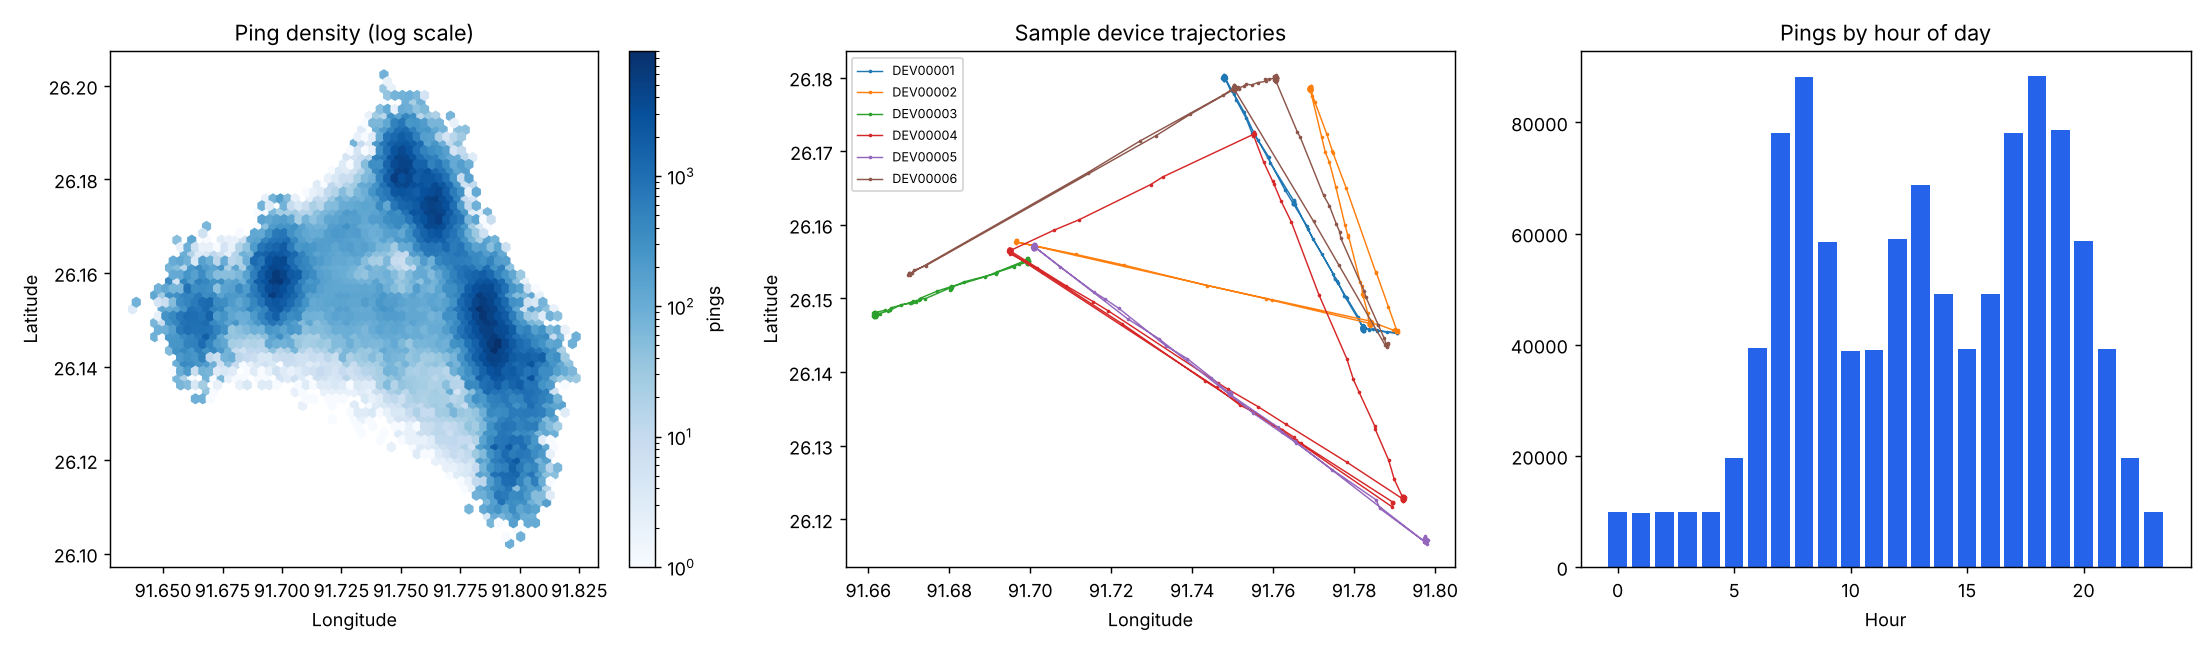
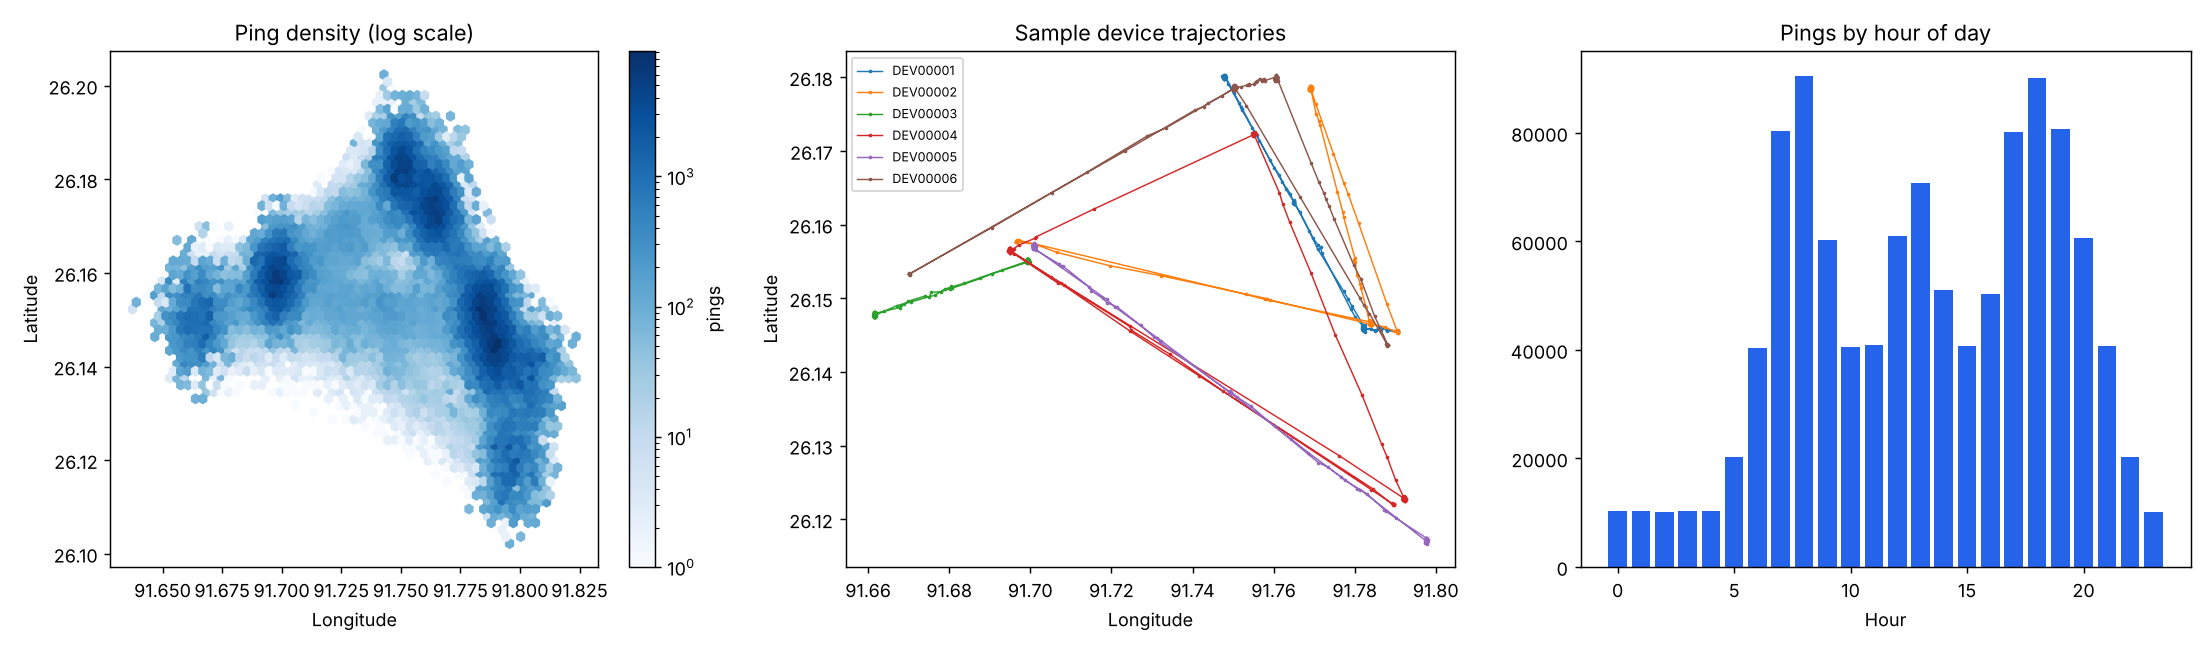
Add files via upload

diff --git a/generate_gps_data.py b/generate_gps_data.py
@@ -26,7 +26,7 @@ def place(rng, names, n, spread):
 def main():
     ap = argparse.ArgumentParser()
     ap.add_argument("--devices", type=int, default=5000)
-    ap.add_argument("--pings", type=int, default=210, help="pings per device")
+    ap.add_argument("--pings", type=int, default=220, help="pings per device (before removing slot collisions)")
     ap.add_argument("--date", default="2026-11-02")
     ap.add_argument("--seed", type=int, default=42)
     ap.add_argument("--out", default="gps_pings.csv")
@@ -45,14 +45,17 @@ def main():
 
     ids, lats, lons, secs = [], [], [], []
     for i in range(D):
-        h = np.sort(rng.choice(24, a.pings, p=prob) + rng.random(a.pings))      # decimal hours
+        # Pings fall on a 10-second grid (unique slots), so two pings are never closer than 10 s.
+        slots = np.unique(((rng.choice(24, a.pings, p=prob) + rng.random(a.pings)) * 360).astype(int))
+        sec = slots * 10 + rng.integers(0, 10)
+        h, n = sec / 3600, len(sec)
         t = [0, leave[i], leave[i] + commute[i], 12.5, 12.9, 13.4, 13.8, back[i], back[i] + .4, back[i] + 1, back[i] + 1.6, 24]
         pts = np.array([home[i], home[i], work[i], work[i], lunch[i], lunch[i], work[i], work[i],
                         evening[i], evening[i], home[i], home[i]])
-        lats.append(np.interp(h, t, pts[:, 0]) + rng.normal(0, 0.00015, a.pings))  # about 17 m GPS noise
-        lons.append(np.interp(h, t, pts[:, 1]) + rng.normal(0, 0.00015, a.pings))
-        secs.append(np.floor(h * 3600).astype(int))
-        ids.append(np.full(a.pings, f"DEV{i + 1:05d}"))
+        lats.append(np.interp(h, t, pts[:, 0]) + rng.normal(0, 0.00015, n))  # about 17 m GPS noise
+        lons.append(np.interp(h, t, pts[:, 1]) + rng.normal(0, 0.00015, n))
+        secs.append(sec)
+        ids.append(np.full(n, f"DEV{i + 1:05d}"))
 
     df = pd.DataFrame({"DeviceID": np.concatenate(ids), "Latitude": np.concatenate(lats).clip(BBOX[0], BBOX[1]),
                        "Longitude": np.concatenate(lons).clip(BBOX[2], BBOX[3]),
@@ -63,7 +66,7 @@ def main():
 
     with open("generation_summary.txt", "w") as f:
         f.write(f"""GeoPulse synthetic GPS generation summary
-Generated at (UTC)   : {pd.Timestamp.utcnow():%Y-%m-%d %H:%M:%S}
+Generated at (UTC)   : {pd.Timestamp.now('UTC'):%Y-%m-%d %H:%M:%S}
 City                 : Guwahati, Assam (simulated)
 Seed                 : {a.seed}
 Simulated date       : {a.date} (24 hours)

diff --git a/data_quality_report.md b/data_quality_report.md
@@ -1,6 +1,6 @@
 # GPS data quality report
 
-File: `gps_pings.csv`  |  Records: 1,048,290  |  Devices: 5,000  |  Result: **1 check(s) need attention**
+File: `gps_pings.csv`  |  Records: 1,081,302  |  Devices: 5,000  |  Result: **all checks passed**
 
 | Check | Status | Issues | Detail |
 |---|---|---|---|
@@ -14,8 +14,8 @@ File: `gps_pings.csv`  |  Records: 1,048,290  |  Devices: 5,000  |  Result: **1 
 | Timestamps in chronological order per device | PASS | 0 |  |
 | Duplicate rows | PASS | 0 |  |
 | Duplicate device + timestamp | PASS | 0 |  |
-| Impossible speed between pings | FAIL | 1167 | over 120 km/h |
-| Devices with fewer than 10 pings | PASS | 0 | pings per device min 206, median 210, max 210 |
+| Impossible speed between pings | PASS | 0 | over 120 km/h |
+| Devices with fewer than 10 pings | PASS | 0 | pings per device min 208, median 216, max 220 |
 
 Time range: 2026-11-02 00:00:00 to 2026-11-02 23:59:59.
 Movement preview: `gps_movement_preview.png`. Full results: `gps_validation_report.csv`.
